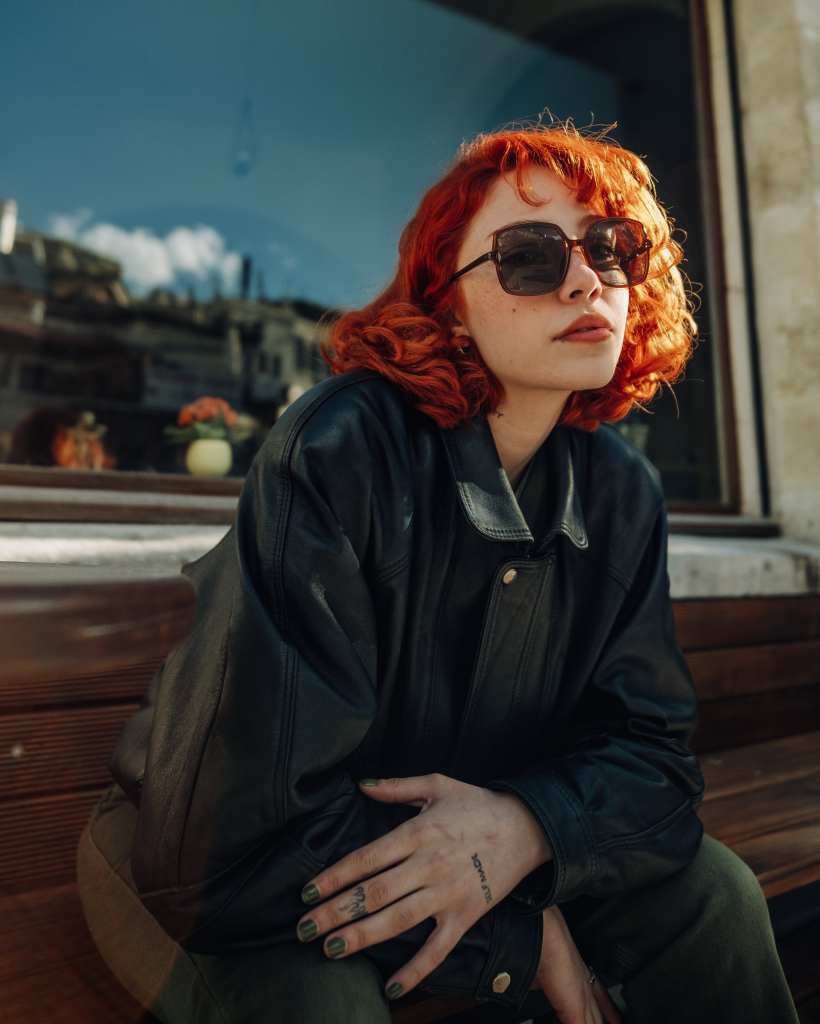
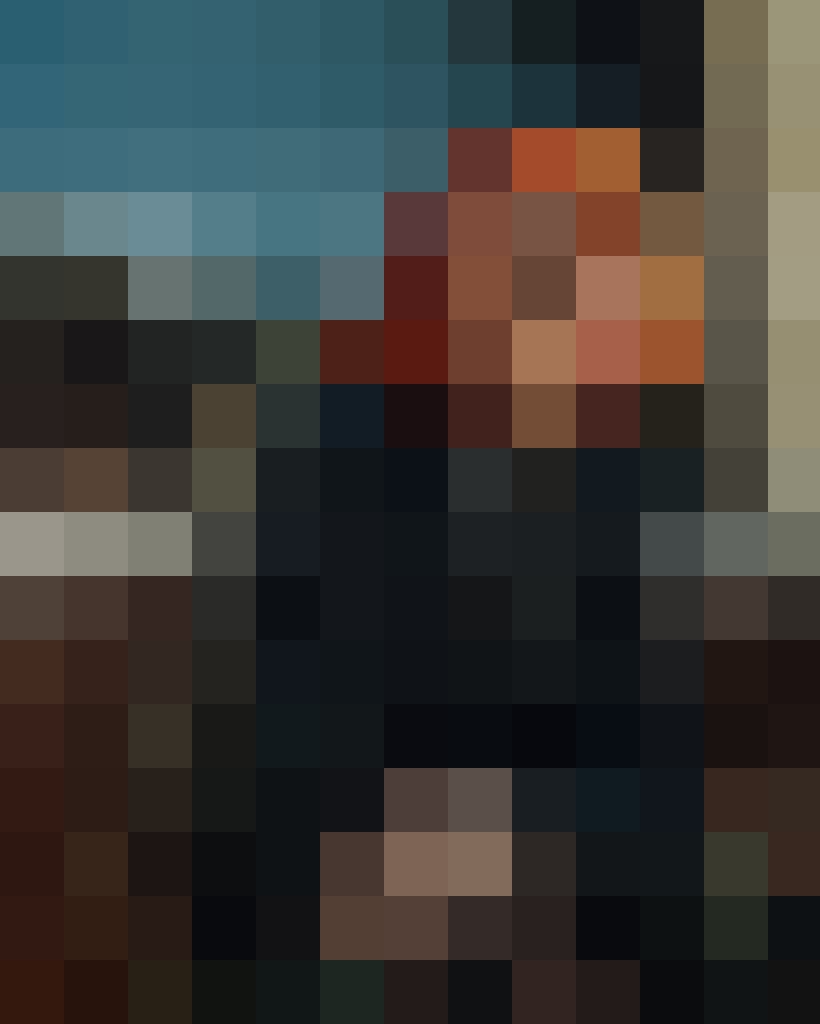
updates

diff --git a/Fotografia/pages/3-post-produzione.md b/Fotografia/pages/3-post-produzione.md
@@ -44,19 +44,19 @@ layout: intro
 
 ---
 layout: intro-image-right
-image: 'https://raw.githubusercontent.com/robertovicario/Comunicazione-Digitale/main/Fotografia/img/3/1.png'
+image: 'https://raw.githubusercontent.com/robertovicario/Comunicazione-Digitale/main/Fotografia/img/3/2.png'
 ---
 
 # Pixel
 
+paragraph
 
 ---
-layout: intro-image-right
-image: 'https://raw.githubusercontent.com/robertovicario/Comunicazione-Digitale/main/Fotografia/img/3/1.png'
+layout: 3-images
+imageLeft: 'https://raw.githubusercontent.com/robertovicario/Comunicazione-Digitale/main/Fotografia/img/3/1.png'
+imageTopRight: 'https://raw.githubusercontent.com/robertovicario/Comunicazione-Digitale/main/Fotografia/img/3/2.png'
+imageBottomRight: 'https://raw.githubusercontent.com/robertovicario/Comunicazione-Digitale/main/Fotografia/img/3/3.png'
 ---
-
-# Pixel
-
 
 ---
 layout: intro-image-right
